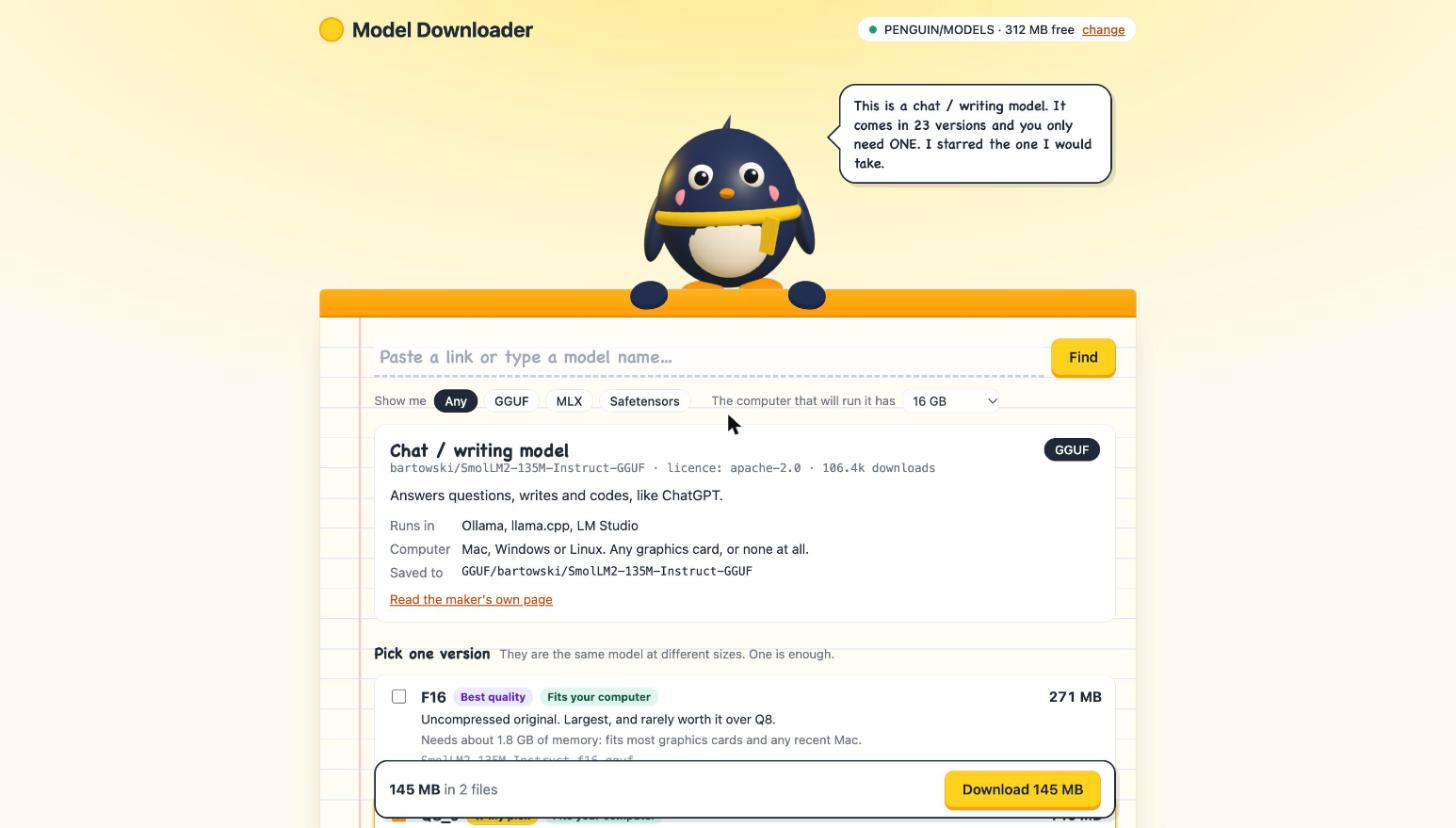
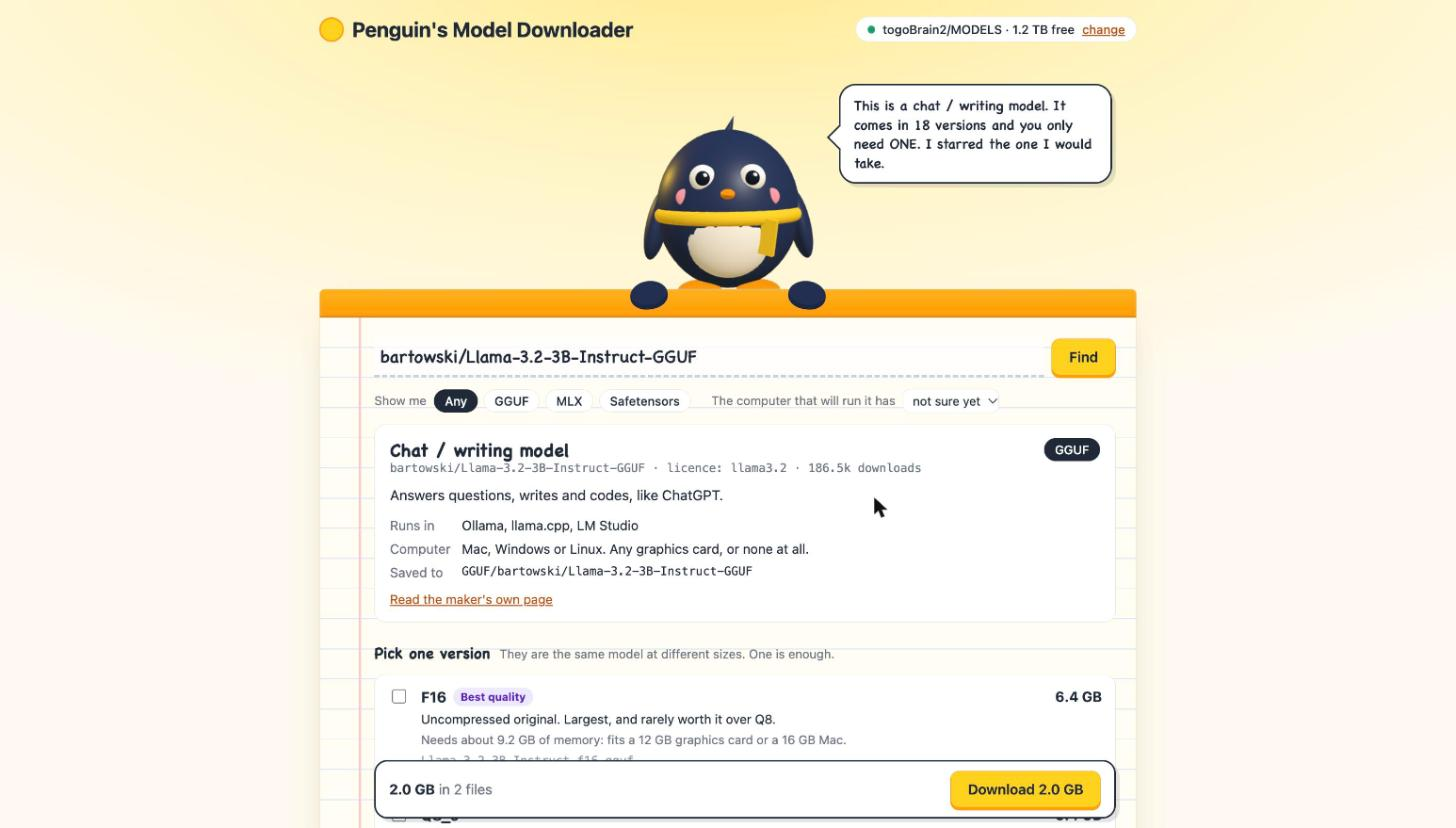
Rename to Penguin's Model Downloader, refresh screenshot

diff --git a/index.html b/index.html
@@ -4,7 +4,7 @@
 <meta charset="utf-8">
 <meta name="viewport" content="width=device-width, initial-scale=1">
 <meta name="color-scheme" content="light">
-<title>Model Downloader</title>
+<title>Penguin's Model Downloader</title>
 <style>
   :root {
     --yellow: #ffd21e; --orange: #ff9d00; --ink: #1f2937; --dim: #6b7280; --line: #e5e7eb;
@@ -164,7 +164,7 @@
 <body>
 <main>
   <header>
-    <h1><i></i>Model Downloader</h1>
+    <h1><i></i>Penguin's Model Downloader</h1>
     <button type="button" class="drive" id="where" title="Choose where models are saved"><span class="dot" id="dot"></span><span id="drive">Checking…</span> <u>change</u></button>
   </header>
 
@@ -587,7 +587,7 @@ async function poll() {
     if (repo && $('dl')) drawSel();
   } catch (err) {
     $('dot').classList.remove('ok');
-    $('drive').textContent = 'App stopped. Reopen Model Downloader from the Desktop.';
+    $('drive').textContent = "App stopped. Reopen Penguin's Model Downloader to carry on.";
   }
 }
 poll(); loadLibrary(); setInterval(poll, 1500);

diff --git a/app.py b/app.py
@@ -1,5 +1,5 @@
 #!/usr/bin/env python3
-"""Model Downloader: a small local web app that downloads Hugging Face models
+"""Penguin's Model Downloader: a small local web app that downloads Hugging Face models
 to this computer or an external drive, sorted by format.
 
     MODELS/GGUF/<org>/<repo>/          llama.cpp, Ollama, LM Studio
@@ -651,7 +651,7 @@ def main():
     threading.Thread(target=worker, daemon=True).start()
     server = ThreadingHTTPServer(("127.0.0.1", PORT), Handler)
     where = storage.root() or "(not chosen yet)"
-    print(f"Model Downloader running at {url}\nSaving to {where}\nClose this window to stop it.")
+    print(f"Penguin's Model Downloader running at {url}\nSaving to {where}\nClose this window to stop it.")
     if not os.environ.get("MODELS_NO_BROWSER"):
         webbrowser.open(url)
     try:

diff --git a/README.md b/README.md
@@ -1,8 +1,8 @@
-# Model Downloader
+# Penguin's Model Downloader
 
 A friendly little app for downloading AI models from [Hugging Face](https://huggingface.co) to your computer or an external drive. Paste a link onto the penguin's notepad and he tells you, in plain English, what the model is, what software runs it, which file to pick, and whether it will fit your computer.
 
-![Model Downloader showing a chat model with the penguin's recommended version](docs/screenshot.jpg)
+![Penguin's Model Downloader showing a chat model with the penguin's recommended version](docs/screenshot.jpg)
 
 It runs entirely on your own machine and opens in your browser. Nothing is uploaded anywhere; it only talks to Hugging Face to look up and download models.
 
